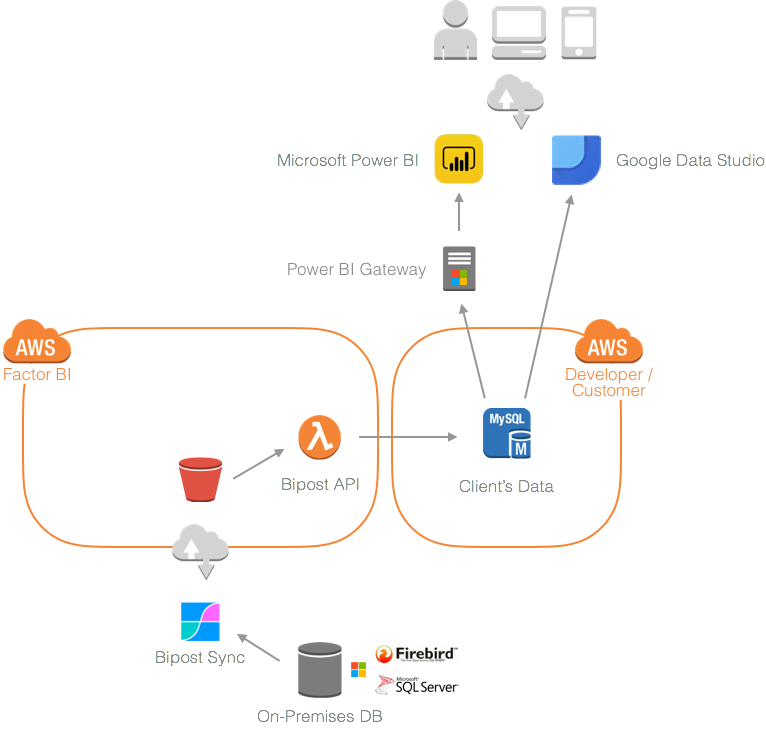
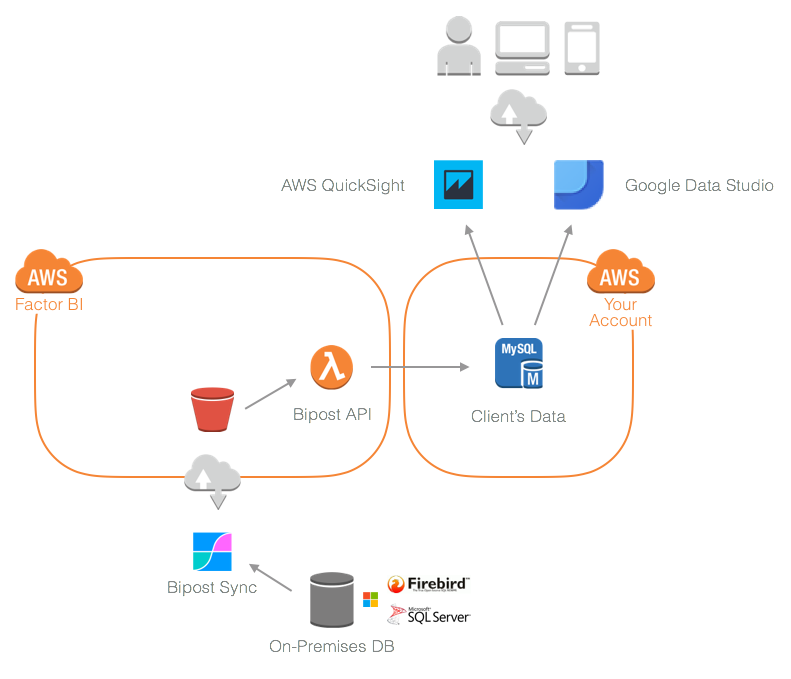
Adding AWS QuickSight!

diff --git a/businessintelligence/index.html b/businessintelligence/index.html
@@ -141,11 +141,13 @@
             <div class="section">
               
                 <h2 id="business-intelligence-use-case">Business Intelligence Use Case<a class="headerlink" href="#business-intelligence-use-case" title="Permanent link">&para;</a></h2>
-<p>At <a href="https://www.factorbi.com">Factor BI</a> we use Bipost to power small and medium companies with B.I. tools such as <a href="https://www.google.com/analytics/data-studio/">Google Data Studio</a> and <a href="https://powerbi.microsoft.com">Microsoft Power BI.</a></p>
+<p>At <a href="https://www.factorbi.com">Factor BI</a> we use Bipost to power small and medium companies with B.I. tools such as <a href="https://www.google.com/analytics/data-studio/">Google Data Studio</a> and <a href="https://quicksight.aws/#overview">AWS QuickSight</a></p>
 <p>Here is an example of the architected solution.</p>
 <p><img alt="Screenshot" src="../img/Business_Intelligece_Use_Case.png" /></p>
-<p>In this example some dashboards are built with Microsoft Power BI because it has a great native mobile app for <a href="https://play.google.com/store/apps/details?id=com.microsoft.powerbim">Android</a> and <a href="https://itunes.apple.com/us/app/microsoft-power-bi/id929738808">iPhone</a>, so it is used by high level executives on the go.</p>
+<p>In this example some dashboards are built with AWS QuickSight because it has an iPhone App so it is used by high level executives on the go.</p>
+<p><a href="https://itunes.apple.com/us/app/amazon-quicksight/id1148226615"><img alt="Screenshot" src="../img/Download_AppStore.png" /></a></p>
 <p>Google Data Studio is used for desktop users and detailed analytical situations, because it has great date &amp; string filters, excellent UX, and dashboards are shared using <a href="https://support.google.com/datastudio/answer/6283323?hl=en&amp;ref_topic=6267740#what-you-need-to-use-data-studio">Google accounts,</a> which is a great way to avoid managing user creation, password reset, etc. </p>
+<p>Check one of our demos: <a href="https://datastudio.google.com/open/0B3vtRQpnOLReNkxqOWwxYjRJQk0">Google Data Studio Demo.</a></p>
               
             </div>
           </div>

diff --git a/microsip/index.html b/microsip/index.html
@@ -162,7 +162,6 @@
 almacenes
 anticipos_cc
 articulos
-atributos
 bancos
 beneficiarios
 cajas
@@ -201,12 +200,8 @@ formas_cobro_doctos
 grupos_lineas
 historia_cambiaria
 importes_doctos_cc
-importes_doctos_cc_imptos
 importes_doctos_cp
-importes_doctos_cp_imptos
 impuestos
-impuestos_articulos
-impuestos_doctos_cm
 impuestos_doctos_ve
 libres_articulos
 libres_cargos_cc

diff --git a/index.html b/index.html
@@ -252,5 +252,5 @@
 
 <!--
 MkDocs version : 0.16.3
-Build Date UTC : 2017-09-19 02:10:48
+Build Date UTC : 2017-11-08 19:53:31
 -->
